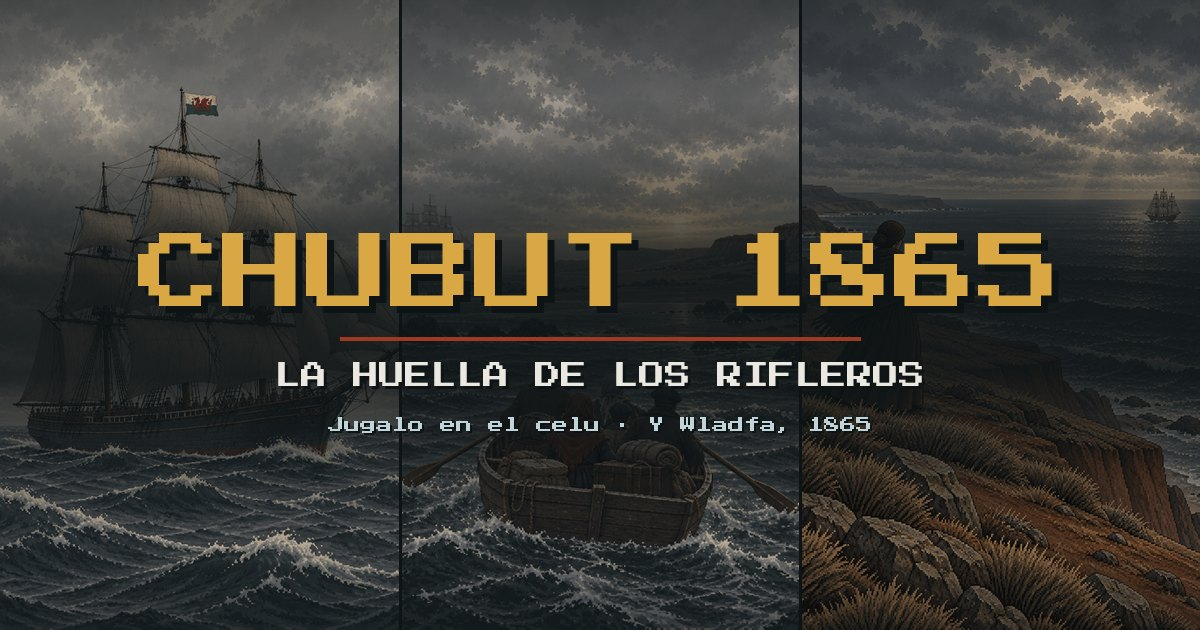
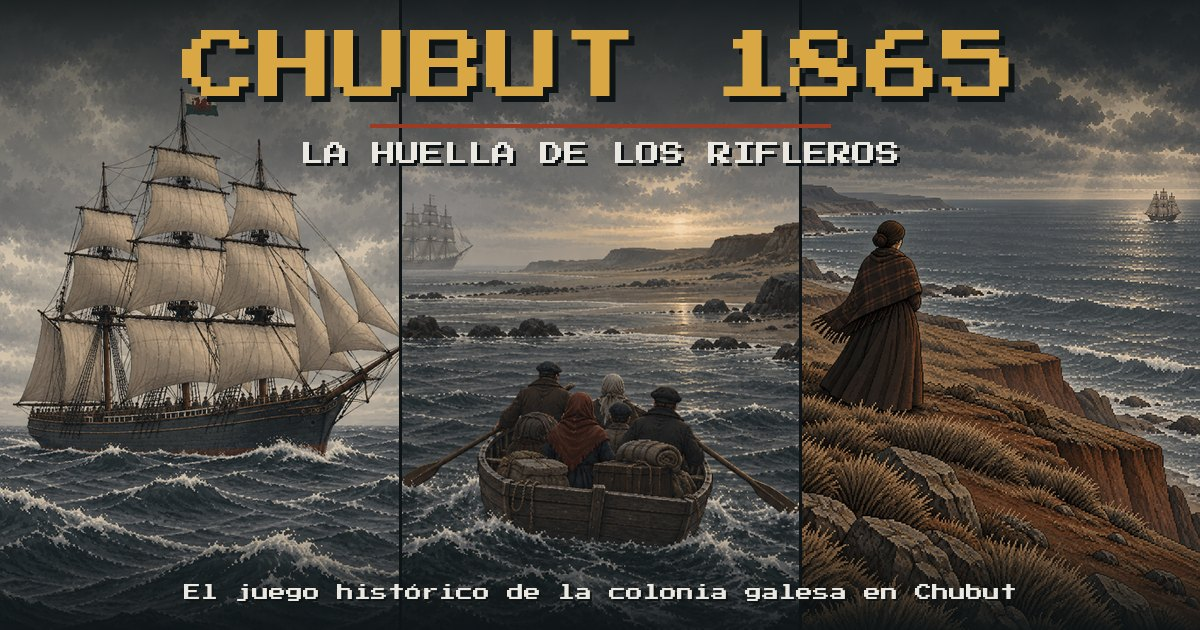
feat: vista previa con las ilustraciones a la vista y bajada de la colonia galesa

diff --git a/index.html b/index.html
@@ -9,22 +9,22 @@
   <title>Chubut 1865 — La Huella de los Rifleros</title>
   <!-- vista previa al compartir el link (WhatsApp, Telegram, redes): imagen en
        public/og.jpg, generada con scripts/make-og.py. WhatsApp necesita URL absoluta. -->
-  <meta name="description" content="1865: desembarcás con los colonos galeses en la costa del Chubut. Un RPG de supervivencia sin combate para jugar en el celu.">
+  <meta name="description" content="El juego histórico de la colonia galesa en Chubut. 1865: desembarcás con los colonos en la costa y tenés que sobrevivir. Para jugar en el celu.">
   <meta property="og:type" content="website">
   <meta property="og:site_name" content="Chubut 1865">
   <meta property="og:locale" content="es_AR">
   <meta property="og:url" content="https://ywladfa.fede-puratich.workers.dev/">
   <meta property="og:title" content="Chubut 1865 — La Huella de los Rifleros">
-  <meta property="og:description" content="1865: desembarcás con los colonos galeses en la costa del Chubut. Un RPG de supervivencia sin combate para jugar en el celu.">
-  <meta property="og:image" content="https://ywladfa.fede-puratich.workers.dev/og.jpg">
-  <meta property="og:image:secure_url" content="https://ywladfa.fede-puratich.workers.dev/og.jpg">
+  <meta property="og:description" content="El juego histórico de la colonia galesa en Chubut. 1865: desembarcás con los colonos en la costa y tenés que sobrevivir. Para jugar en el celu.">
+  <meta property="og:image" content="https://ywladfa.fede-puratich.workers.dev/og.jpg?v=2">
+  <meta property="og:image:secure_url" content="https://ywladfa.fede-puratich.workers.dev/og.jpg?v=2">
   <meta property="og:image:type" content="image/jpeg">
   <meta property="og:image:width" content="1200">
   <meta property="og:image:height" content="630">
   <meta property="og:image:alt" content="Chubut 1865: el barco, el bote llegando a la costa y una colona mirando el mar desde la barranca">
   <meta name="twitter:card" content="summary_large_image">
   <meta name="twitter:title" content="Chubut 1865 — La Huella de los Rifleros">
-  <meta name="twitter:image" content="https://ywladfa.fede-puratich.workers.dev/og.jpg">
+  <meta name="twitter:image" content="https://ywladfa.fede-puratich.workers.dev/og.jpg?v=2">
   <link rel="preconnect" href="https://fonts.googleapis.com">
   <link rel="preconnect" href="https://fonts.gstatic.com" crossorigin>
   <!-- fuente retro para título/menús/diálogos (ver util/text.ts, RETRO_FONT) —

diff --git a/scripts/make-og.py b/scripts/make-og.py
@@ -17,15 +17,16 @@ for i,n in enumerate(names):
 # separadores finos
 d=ImageDraw.Draw(out)
 for i in (1,2): d.rectangle((i*pw-1,0,i*pw+1,H),fill=(14,20,22))
-# viñeta + franja oscura central para el título
+# las ilustraciones quedan limpias en el medio (barco, bote, colona): el texto va
+# arriba, sobre el cielo, y abajo, sobre el agua y el pasto, con degradés solo ahí
 ov=Image.new('RGBA',(W,H),(0,0,0,0))
 od=ImageDraw.Draw(ov)
-cy=H//2+10
+TOP,BOT=215,110
 for y in range(H):
-    dist=abs(y-cy)/(H/2)
-    a1=225*min(1,max(0,1.25-dist*1.6))
-    a2=110*max(0,(abs(y-H/2)/(H/2)-0.6)/0.4)
-    od.line((0,y,W,y),fill=(14,20,22,int(max(a1,a2))))
+    a=0
+    if y<TOP: a=max(a,215*(1-y/TOP)**1.3)
+    if y>H-BOT: a=max(a,225*((y-(H-BOT))/BOT)**1.2)
+    od.line((0,y,W,y),fill=(14,20,22,int(a)))
 out=Image.alpha_composite(out.convert('RGBA'),ov)
 d=ImageDraw.Draw(out)
 F=sys.argv[2] if len(sys.argv)>2 else 'PressStart2P.ttf'  # https://fonts.google.com/specimen/Press+Start+2P
@@ -35,9 +36,8 @@ def ctext(txt,size,y,fill,shadow=(14,20,22),sh=6):
     x=(W-w)/2
     d.text((x+sh,y+sh),txt,font=f,fill=shadow)
     d.text((x,y),txt,font=f,fill=fill)
-ctext('CHUBUT 1865',84,cy-92,(217,168,69),sh=7)
-# línea
-d.rectangle((W/2-260,cy+12,W/2+260,cy+15),fill=(156,58,36))
-ctext('LA HUELLA DE LOS RIFLEROS',26,cy+38,(234,232,224),sh=3)
-ctext('Jugalo en el celu · Y Wladfa, 1865',16,cy+92,(191,211,216),sh=2)
+ctext('CHUBUT 1865',76,30,(217,168,69),sh=6)
+d.rectangle((W/2-230,124,W/2+230,127),fill=(156,58,36))
+ctext('LA HUELLA DE LOS RIFLEROS',24,142,(234,232,224),sh=3)
+ctext('El juego histórico de la colonia galesa en Chubut',17,H-46,(234,232,224),sh=2)
 out.convert('RGB').save(sys.argv[1],'JPEG',quality=86,optimize=True,progressive=True)
